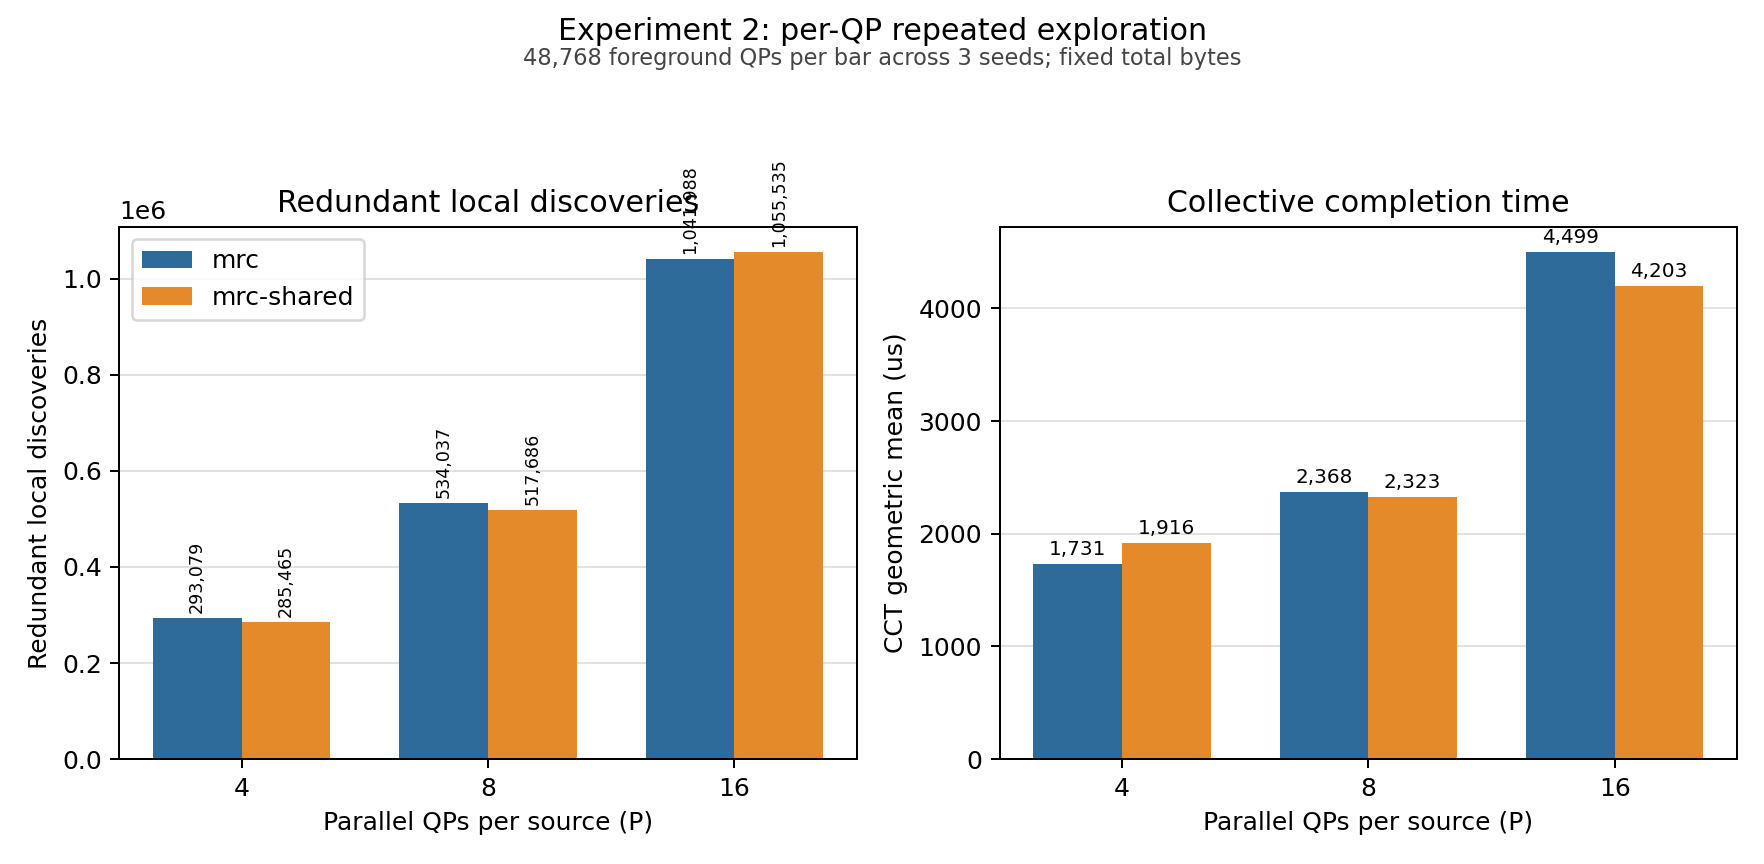
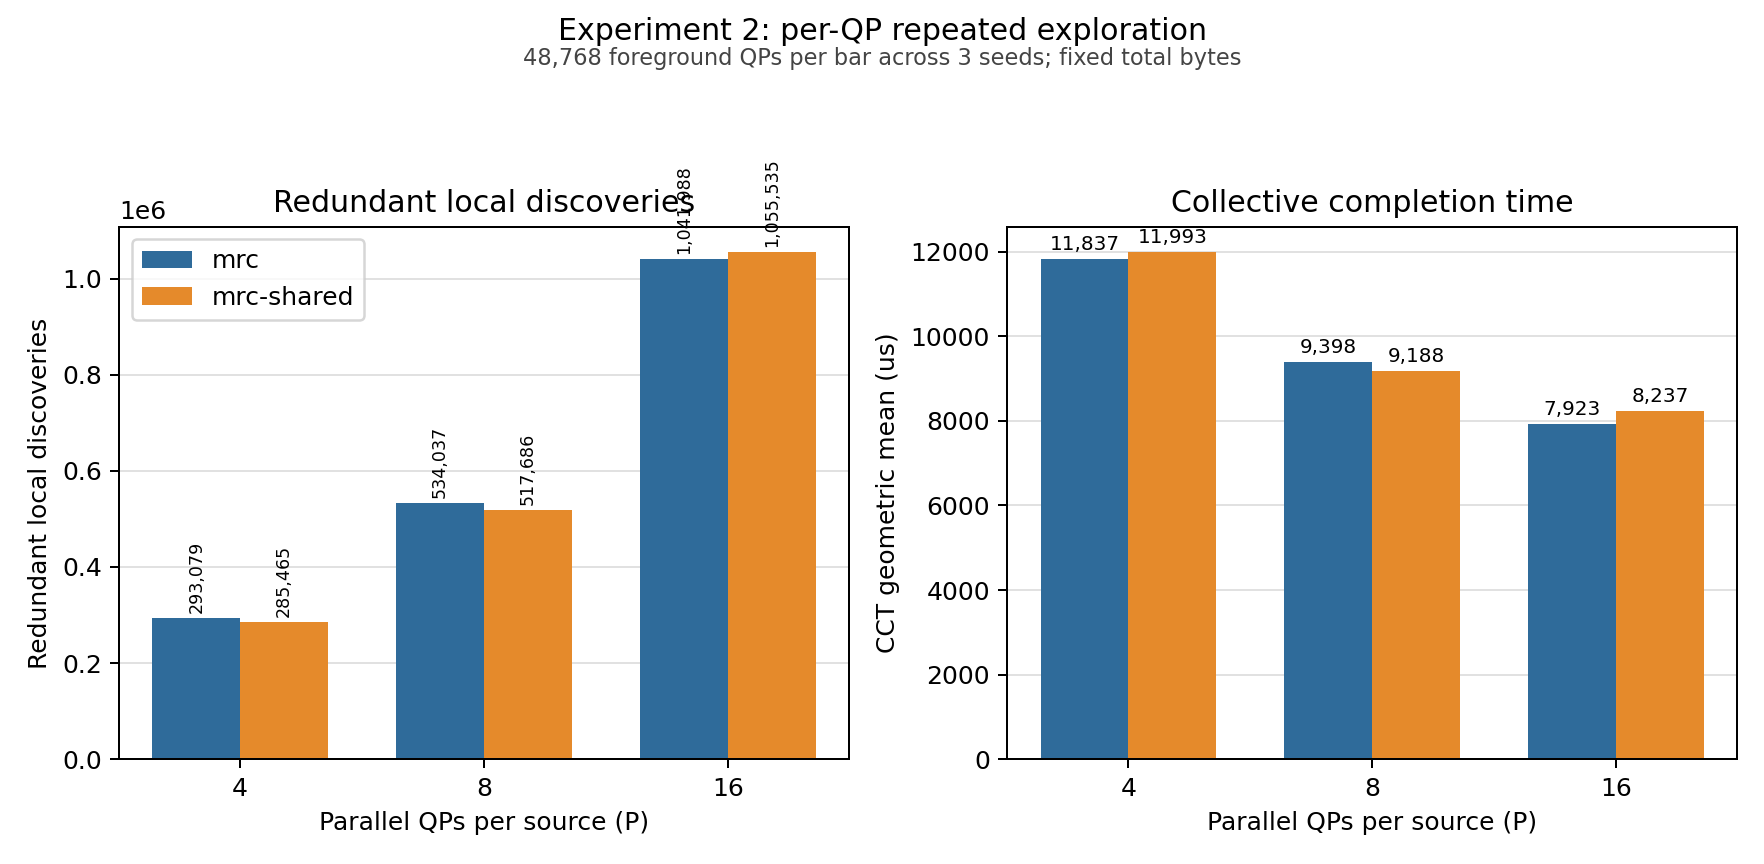
fix: measure collective CCT across triggered batches

diff --git a/sim/tests/test_mrc_inherent_limitations_runner.py b/sim/tests/test_mrc_inherent_limitations_runner.py
@@ -187,6 +187,89 @@ class RunnerContractTest(unittest.TestCase):
         self.assertEqual(
             analysis.flow_size_rows()[0]["fct_ratio_geomean"], 1.1)
 
+    def test_streaming_collective_cct_spans_staggered_flow_starts(self):
+        runner = load_runner()
+        analysis = runner.StreamingAnalysis()
+        base = {
+            "experiment": "per_qp_sharing",
+            "parallel": 4,
+            "scheme": "mrc",
+            "seed": 13,
+            "shared_updates_published": 0,
+            "shared_updates_consumed": 0,
+            "shared_updates_from_other_qps": 0,
+            "redundant_discoveries": 0,
+            "post_shared_bad_ev_sends": 0,
+            "effective_state_updates": 0,
+            "active_evs": 8,
+            "unique_active_evs": 1,
+        }
+        analysis.add_flow({
+            **base, "start_us": 0.0, "finish_us": 10.0,
+            "fct_us": 10.0,
+        })
+        analysis.add_flow({
+            **base, "start_us": 9.0, "finish_us": 15.0,
+            "fct_us": 6.0,
+        })
+
+        row = next(item for item in analysis.summary_rows()
+                   if item["experiment"] == "per_qp_sharing")
+        self.assertEqual(row["cct_geomean_us"], 15.0)
+
+    def test_nonstreaming_collective_cct_spans_staggered_flow_starts(self):
+        runner = load_runner()
+        base = {
+            "experiment": "per_qp_sharing",
+            "parallel": 4,
+            "scheme": "mrc",
+            "seed": 13,
+            "shared_updates_published": 0,
+            "shared_updates_consumed": 0,
+            "shared_updates_from_other_qps": 0,
+            "redundant_discoveries": 0,
+            "post_shared_bad_ev_sends": 0,
+            "effective_state_updates": 0,
+            "active_evs": 8,
+            "unique_active_evs": 1,
+            "scenario": "exp2_test",
+            "src": 0,
+            "dst": 1,
+            "flow_size": 100,
+            "new_selections_after_first_update": 0,
+            "post_cooldown_first_clean": 0,
+            "max_simultaneous_cooling": 0,
+            "replacement_congestion": 0,
+            "forced_cooling_uses": 0,
+        }
+        summary, _ = runner.build_aggregates([
+            {
+                **base, "flow_id": 1,
+                "start_us": 0.0, "finish_us": 10.0,
+                "fct_us": 10.0,
+            },
+            {
+                **base, "flow_id": 2,
+                "start_us": 9.0, "finish_us": 15.0,
+                "fct_us": 6.0,
+            },
+            {
+                **base, "scheme": "mrc-shared", "flow_id": 1,
+                "start_us": 0.0, "finish_us": 10.0,
+                "fct_us": 10.0,
+            },
+            {
+                **base, "scheme": "mrc-shared", "flow_id": 2,
+                "start_us": 9.0, "finish_us": 15.0,
+                "fct_us": 6.0,
+            },
+        ], [])
+
+        row = next(item for item in summary
+                   if item["experiment"] == "per_qp_sharing"
+                   and item["scheme"] == "mrc")
+        self.assertEqual(row["cct_geomean_us"], 15.0)
+
 
 if __name__ == "__main__":
     unittest.main()

diff --git a/experiments/n-mrc/run_mrc_inherent_limitations.py b/experiments/n-mrc/run_mrc_inherent_limitations.py
@@ -744,8 +744,12 @@ def build_aggregates(flow_rows, shared_key_rows):
     for (parallel, scheme), selected in sorted(exp2_groups.items()):
         per_seed_cct = []
         for seed in sorted({row["seed"] for row in selected}):
-            per_seed_cct.append(max(
-                row["fct_us"] for row in selected if row["seed"] == seed))
+            seed_rows = [
+                row for row in selected if row["seed"] == seed
+            ]
+            per_seed_cct.append(
+                max(row["finish_us"] for row in seed_rows) -
+                min(row["start_us"] for row in seed_rows))
         summary.append({
             "experiment": "per_qp_sharing",
             "family": "asymmetric_alltoall",
@@ -827,7 +831,7 @@ class StreamingAnalysis:
         if row["experiment"] == "per_qp_sharing":
             key = (row["parallel"], row["scheme"])
             group = self.exp2.setdefault(key, {
-                "count": 0, "fcts": [], "cct": {},
+                "count": 0, "fcts": [], "collective_bounds": {},
                 "shared_updates_published": 0,
                 "shared_updates_consumed": 0,
                 "shared_updates_from_other_qps": 0,
@@ -836,8 +840,10 @@ class StreamingAnalysis:
             })
             group["count"] += 1
             group["fcts"].append(row["fct_us"])
-            group["cct"][row["seed"]] = max(
-                group["cct"].get(row["seed"], 0.0), row["fct_us"])
+            bounds = group["collective_bounds"].setdefault(
+                row["seed"], [row["start_us"], row["finish_us"]])
+            bounds[0] = min(bounds[0], row["start_us"])
+            bounds[1] = max(bounds[1], row["finish_us"])
             for field in (
                     "shared_updates_published", "shared_updates_consumed",
                     "shared_updates_from_other_qps",
@@ -909,7 +915,9 @@ class StreamingAnalysis:
                 "active_evs": PATHS,
                 "scheme": scheme,
                 "flow_count": group["count"],
-                "cct_geomean_us": geometric_mean(group["cct"].values()),
+                "cct_geomean_us": geometric_mean(
+                    finish - start for start, finish
+                    in group["collective_bounds"].values()),
                 "p99_fct_us": percentile(group["fcts"], 0.99),
                 "shared_updates_published":
                     group["shared_updates_published"],
